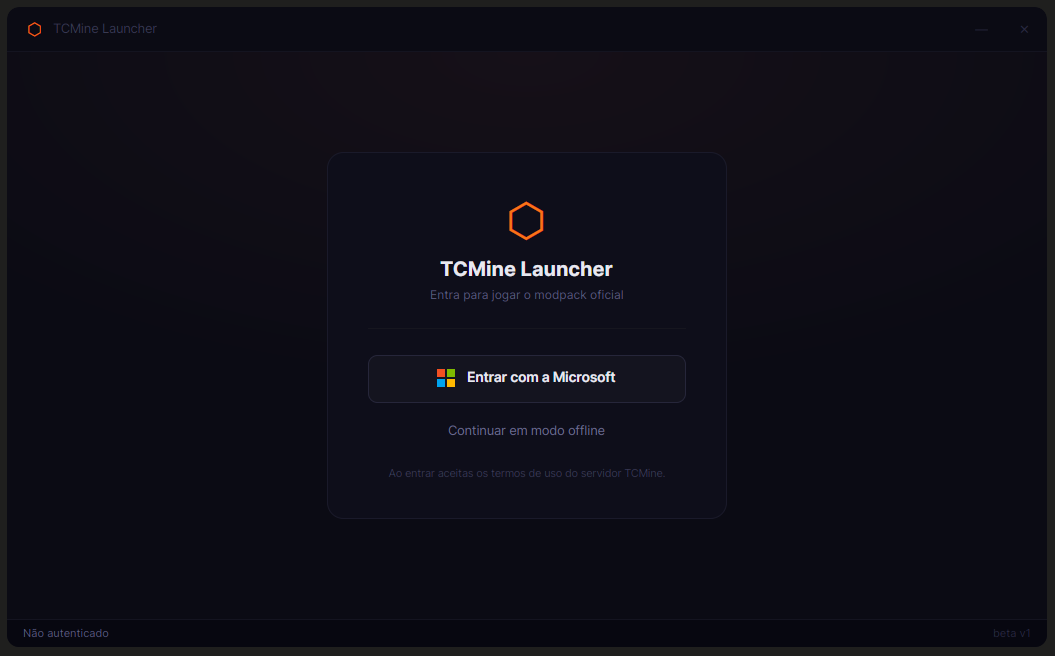
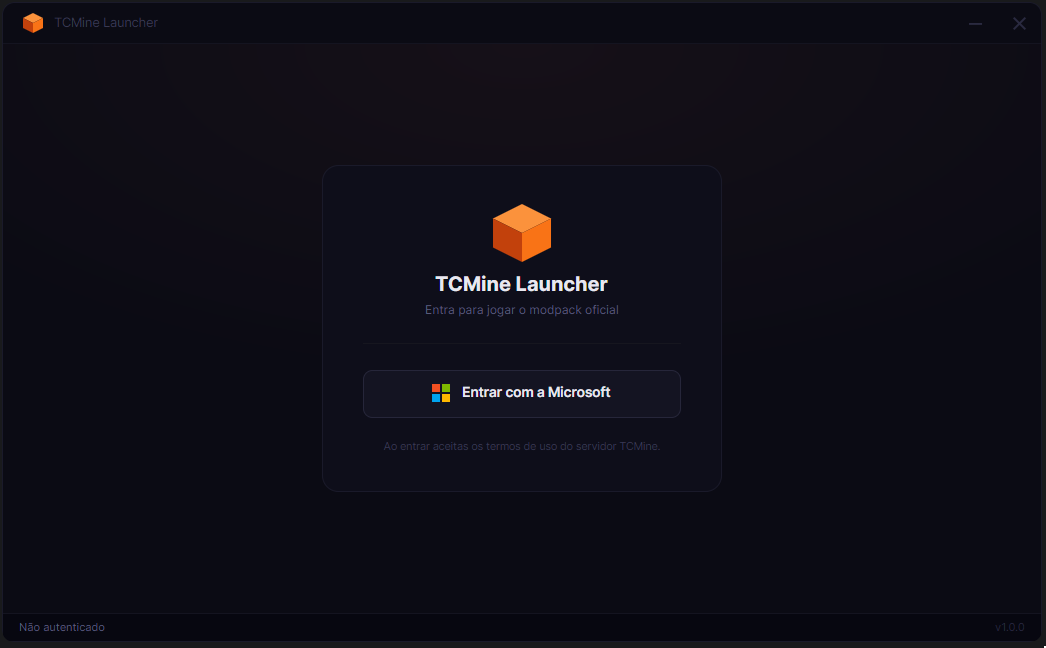
Add "About" window and improve About sections across the launcher
- Introduce `AboutWindow` with application metadata and GitHub shortcut.
- Update `TitleBar` to include optional "About" button for main window.
- Modify `LoginView` to include "About" button.
- Remove legacy "About" section from `SettingsPageView`.
- Centralize "About" content for better consistency and maintainability.
- Add new icons (`IconInfo`, `IconGithub`) to the centralized icons system.

diff --git a/TCMine-Launcher/Views/Windows/AboutWindow.axaml.cs b/TCMine-Launcher/Views/Windows/AboutWindow.axaml.cs
@@ -1,0 +1,30 @@
+using System.Diagnostics;
+using System.Reflection;
+using Avalonia.Controls;
+using Avalonia.Interactivity;
+
+namespace TCMine_Launcher.Views;
+
+public partial class AboutWindow : Window
+{
+    private const string RepoUrl = "https://github.com/tiny-core/TCMine-Launcher";
+
+    public AboutWindow()
+    {
+        InitializeComponent();
+        var version = Assembly.GetExecutingAssembly().GetName().Version?.ToString(3) ?? "1.0.0";
+        VersionText.Text = $"v{version}";
+    }
+
+    private void Github_Click(object? sender, RoutedEventArgs e)
+    {
+        try
+        {
+            Process.Start(new ProcessStartInfo(RepoUrl) { UseShellExecute = true });
+        }
+        catch
+        {
+            // ignora se não houver navegador disponível
+        }
+    }
+}

diff --git a/TCMine-Launcher/Views/Controls/TitleBar.axaml.cs b/TCMine-Launcher/Views/Controls/TitleBar.axaml.cs
@@ -22,6 +22,10 @@ public partial class TitleBar : UserControl
     public static readonly StyledProperty<bool> ShowMinimizeProperty =
         AvaloniaProperty.Register<TitleBar, bool>(nameof(ShowMinimize), true);
 
+    /// <summary>Mostra o botão "Sobre" (info) — só na janela principal.</summary>
+    public static readonly StyledProperty<bool> ShowAboutProperty =
+        AvaloniaProperty.Register<TitleBar, bool>(nameof(ShowAbout));
+
     public TitleBar()
     {
         InitializeComponent();
@@ -39,7 +43,18 @@ public partial class TitleBar : UserControl
         set => SetValue(ShowMinimizeProperty, value);
     }
 
+    public bool ShowAbout
+    {
+        get => GetValue(ShowAboutProperty);
+        set => SetValue(ShowAboutProperty, value);
+    }
+
     private Window? Host => TopLevel.GetTopLevel(this) as Window;
+
+    private void OnAbout(object? sender, RoutedEventArgs e)
+    {
+        if (Host is { } window) new AboutWindow().ShowDialog(window);
+    }
 
     private void OnDrag(object? sender, PointerPressedEventArgs e)
     {

diff --git a/TCMine-Launcher/Views/Pages/LoginView.axaml.cs b/TCMine-Launcher/Views/Pages/LoginView.axaml.cs
@@ -1,4 +1,5 @@
 using Avalonia.Controls;
+using Avalonia.Interactivity;
 
 namespace TCMine_Launcher.Views;
 
@@ -7,5 +8,11 @@ public partial class LoginView : UserControl
     public LoginView()
     {
         InitializeComponent();
+    }
+
+    private void About_Click(object? sender, RoutedEventArgs e)
+    {
+        if (TopLevel.GetTopLevel(this) is Window owner)
+            new AboutWindow().ShowDialog(owner);
     }
 }

diff --git a/README.md b/README.md
@@ -18,9 +18,10 @@ Login com a Microsoft, gestão de versões e um modpack próprio — tudo numa i
 
 ## ✨ Visão geral
 
-O **TCMine Launcher** é um launcher desktop construído com **Avalonia UI** (.NET 10) que instala e lança o **modpack
-custom do servidor TCMine** sobre **NeoForge**. Foca-se numa experiência simples: entra com a tua conta Microsoft,
-escolhe o modpack e joga.
+O **TCMine Launcher** é um launcher desktop construído com **Avalonia UI** (.NET 10) que instala e lança
+**modpacks NeoForge** a partir de um **servidor configurável** (o TCMine por omissão, mas podes apontar para o teu
+em Definições). Foca-se numa experiência simples: entra com a tua conta Microsoft, escolhe o modpack e joga —
+com instâncias isoladas, auto-update e conteúdo gerido pelo servidor.
 
 <div align="center">
 
@@ -31,11 +32,12 @@ escolhe o modpack e joga.
 ## 🚀 Funcionalidades
 
 - 🔐 **Login com a Microsoft** (navegador do sistema) — obtém o teu perfil, nome e UUID reais
-- 🧩 **Modpack oficial** com seleção de versão de Minecraft e NeoForge
-- 🗂️ **Navegação por separadores**: Jogar, Modpacks, Novidades e Definições
-- 📊 **Progresso e registo de launch** com consola integrada
-- ⚙️ **Definições**: memória JVM, caminho do Java e gestão de conta
-- 🎨 Interface escura moderna, janela sem decorações nativas e transições suaves
+- 🧩 **Modpacks oficiais** do servidor — instala mods, resource packs/shaders e servidores, aplica as configs (overrides) e a RAM recomendada
+- 🗂️ **Instâncias isoladas** — cria, importa/exporta e gere várias instalações independentes
+- ▶️ **Launch real do Minecraft (NeoForge)** com progresso e janela de **registo de eventos**
+- ⬆️ **Auto-update** do próprio launcher (Velopack)
+- ⚙️ **Definições**: memória JVM, caminho do Java e URL do servidor
+- 🎨 Interface escura moderna (janela sem decorações nativas, componentes e temas centralizados)
 
 <div align="center">
 